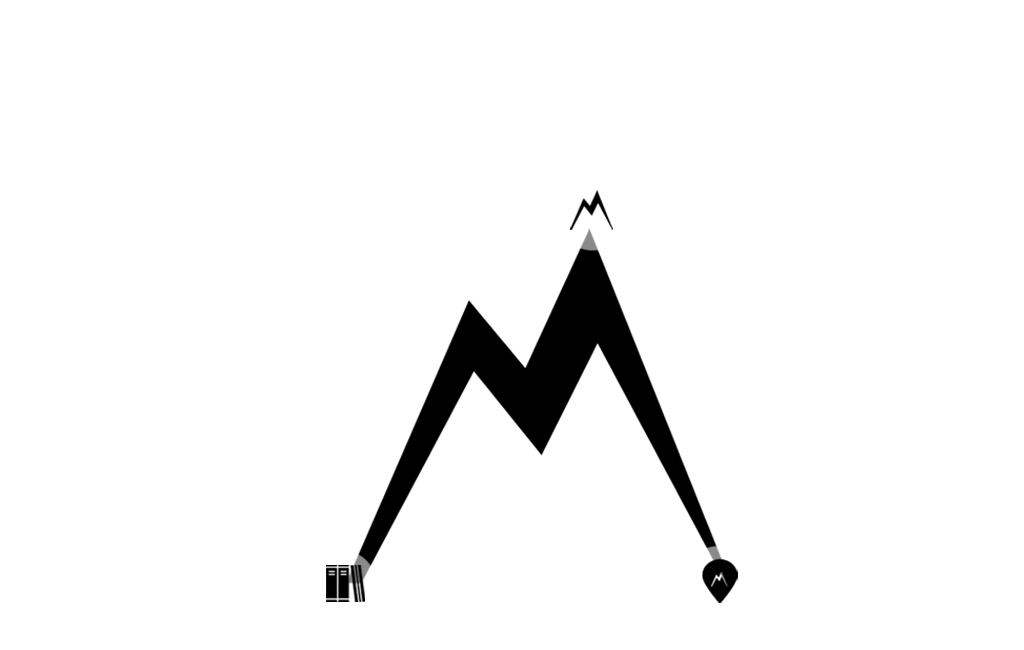
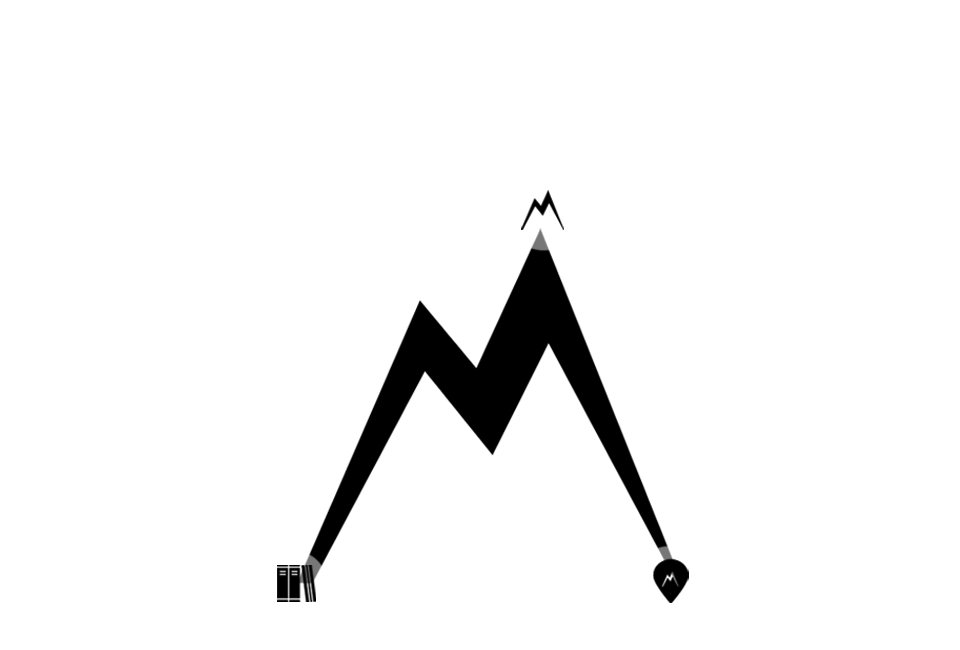
fixed landing page alignment

Changed region(s): [[0.2812, 0.2769, 0.7188, 0.9231]]

diff --git a/public/stylesheets/style.css b/public/stylesheets/style.css
@@ -49,7 +49,7 @@ body {
   margin-left: auto;
   margin-right: auto;
   width: 960px;
-  margin-top: -11px;
+  position:relative;
 }
 
 p {
@@ -128,18 +128,14 @@ logo img {
 }
 
 #splash img {
-  margin: 0 auto;
 }
 
 
 .landing-form {
-  position: relative;
   width: 260px;
-  margin-top: 80px;
-  margin-left: 110px;
   position: absolute;
-  left: auto;
-  top: 250px;
+  left: 70px;
+  top: 200px;
 }
 
 
